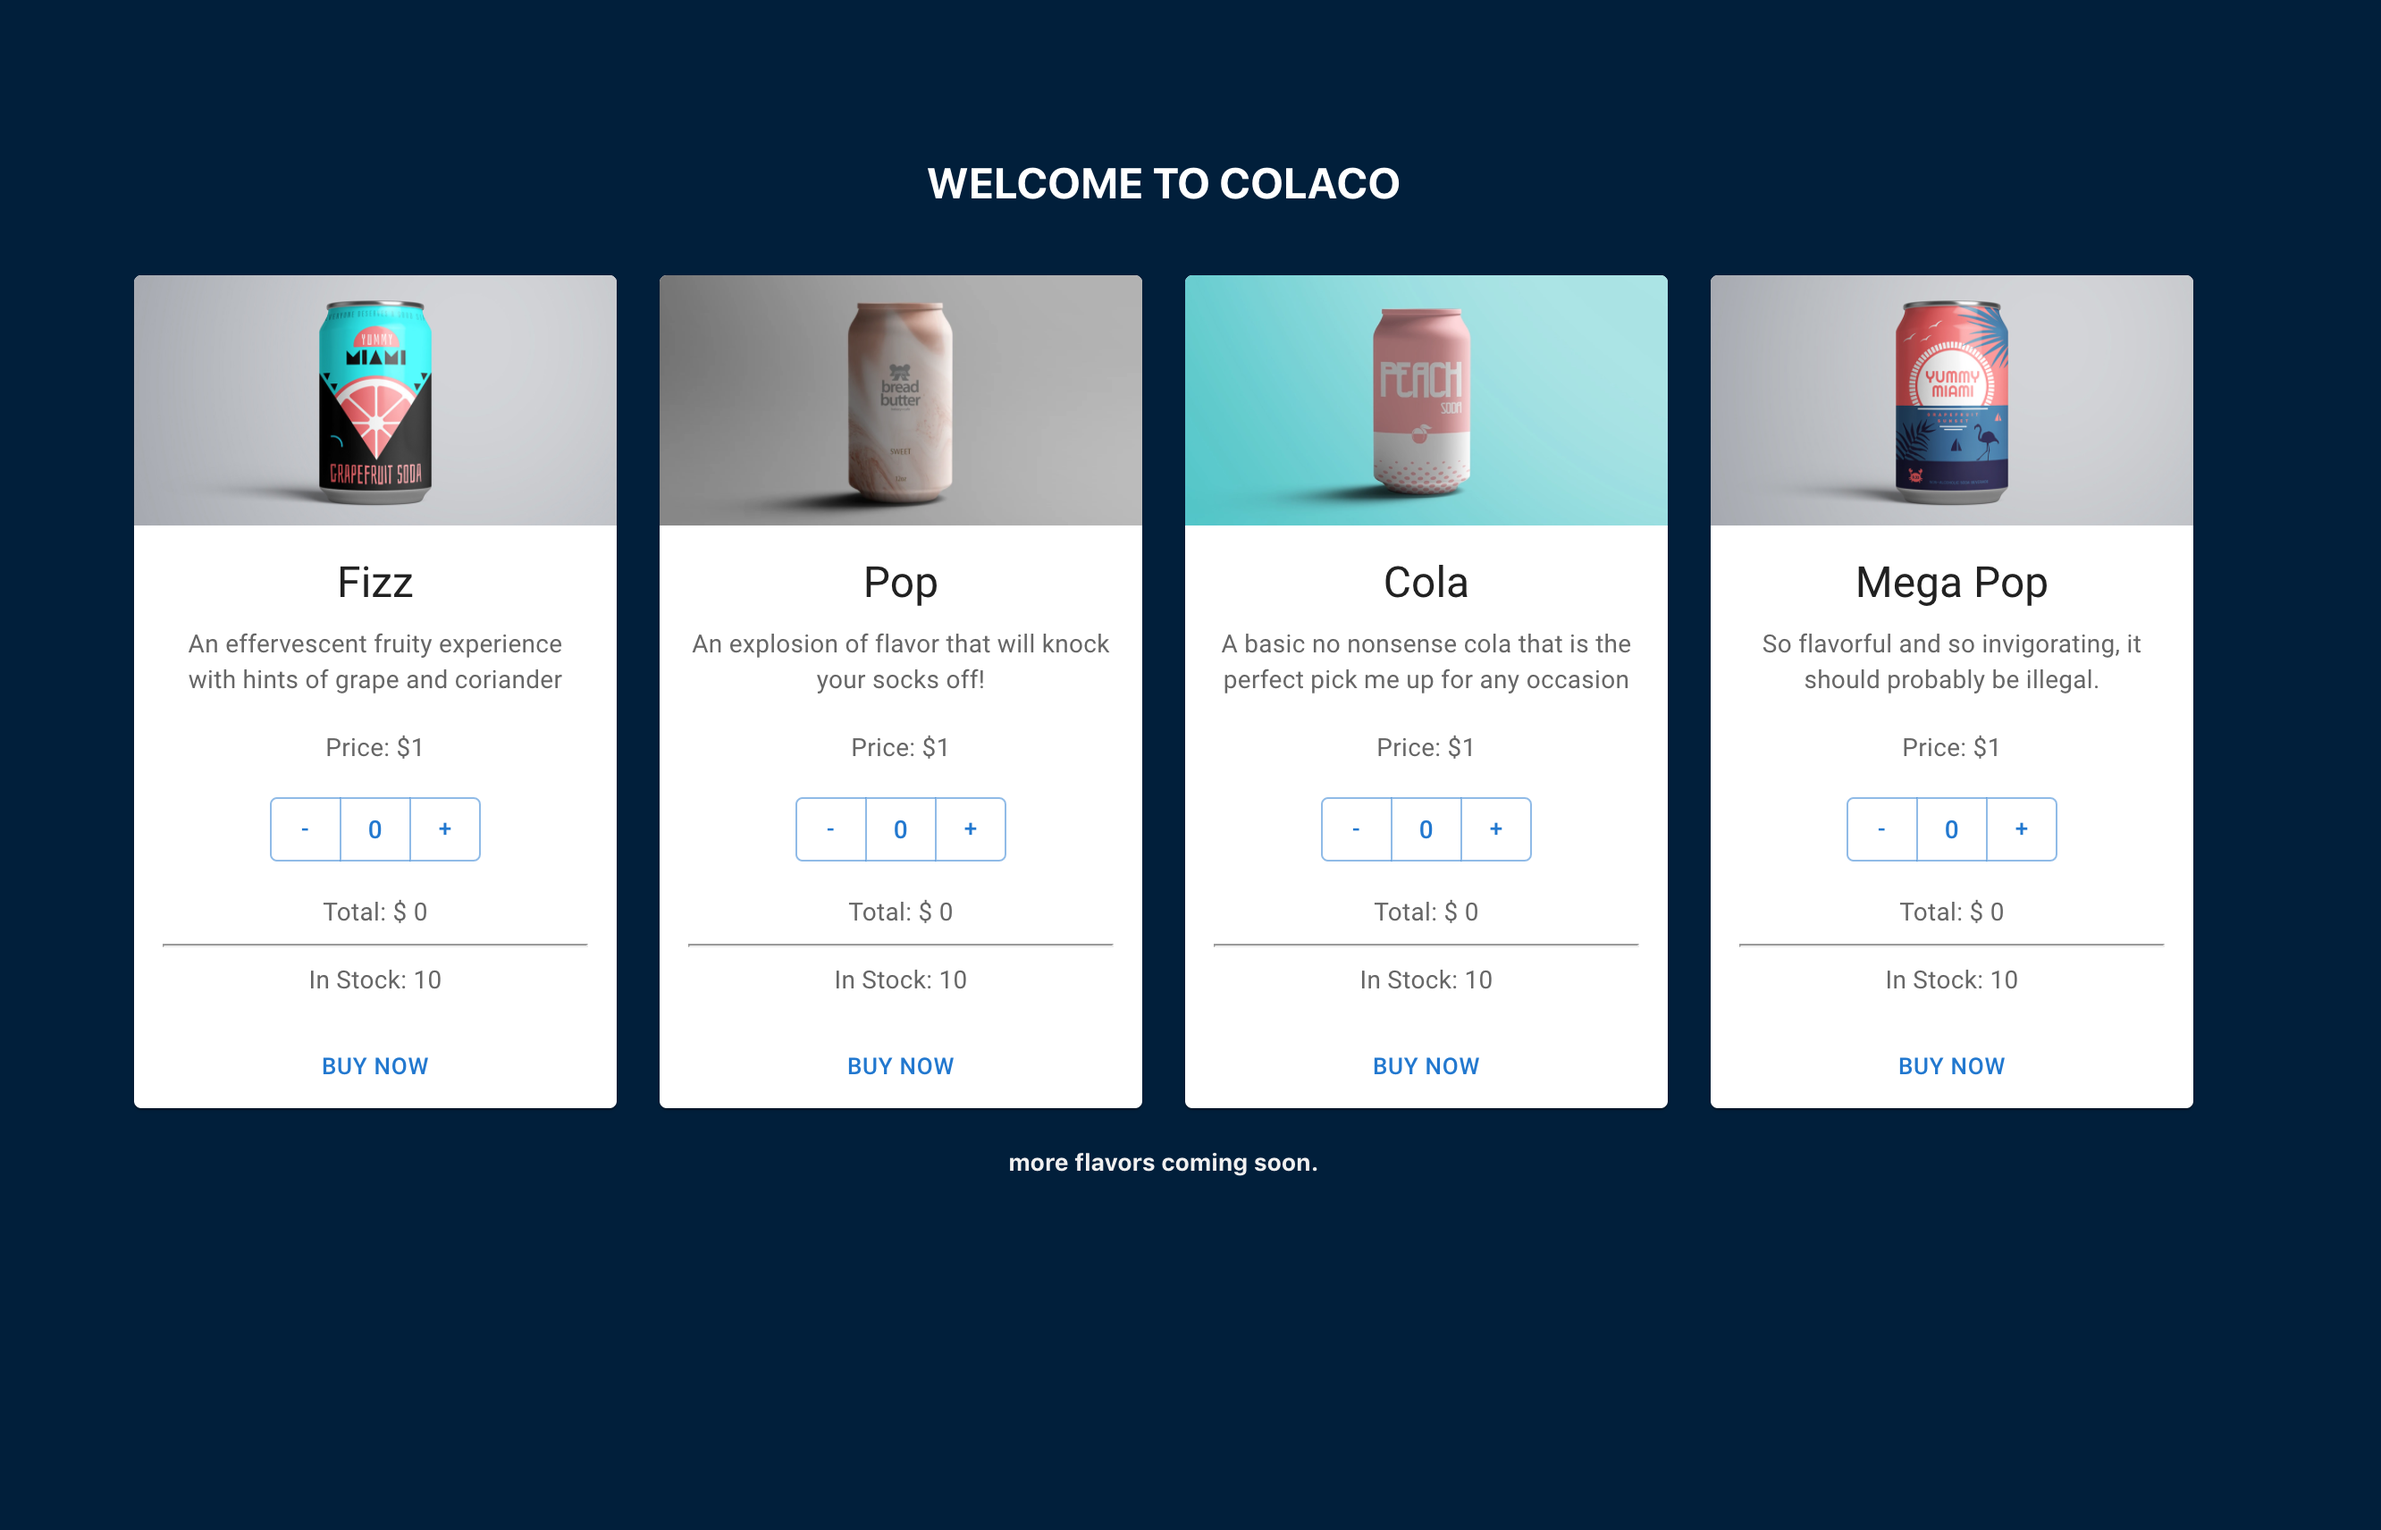
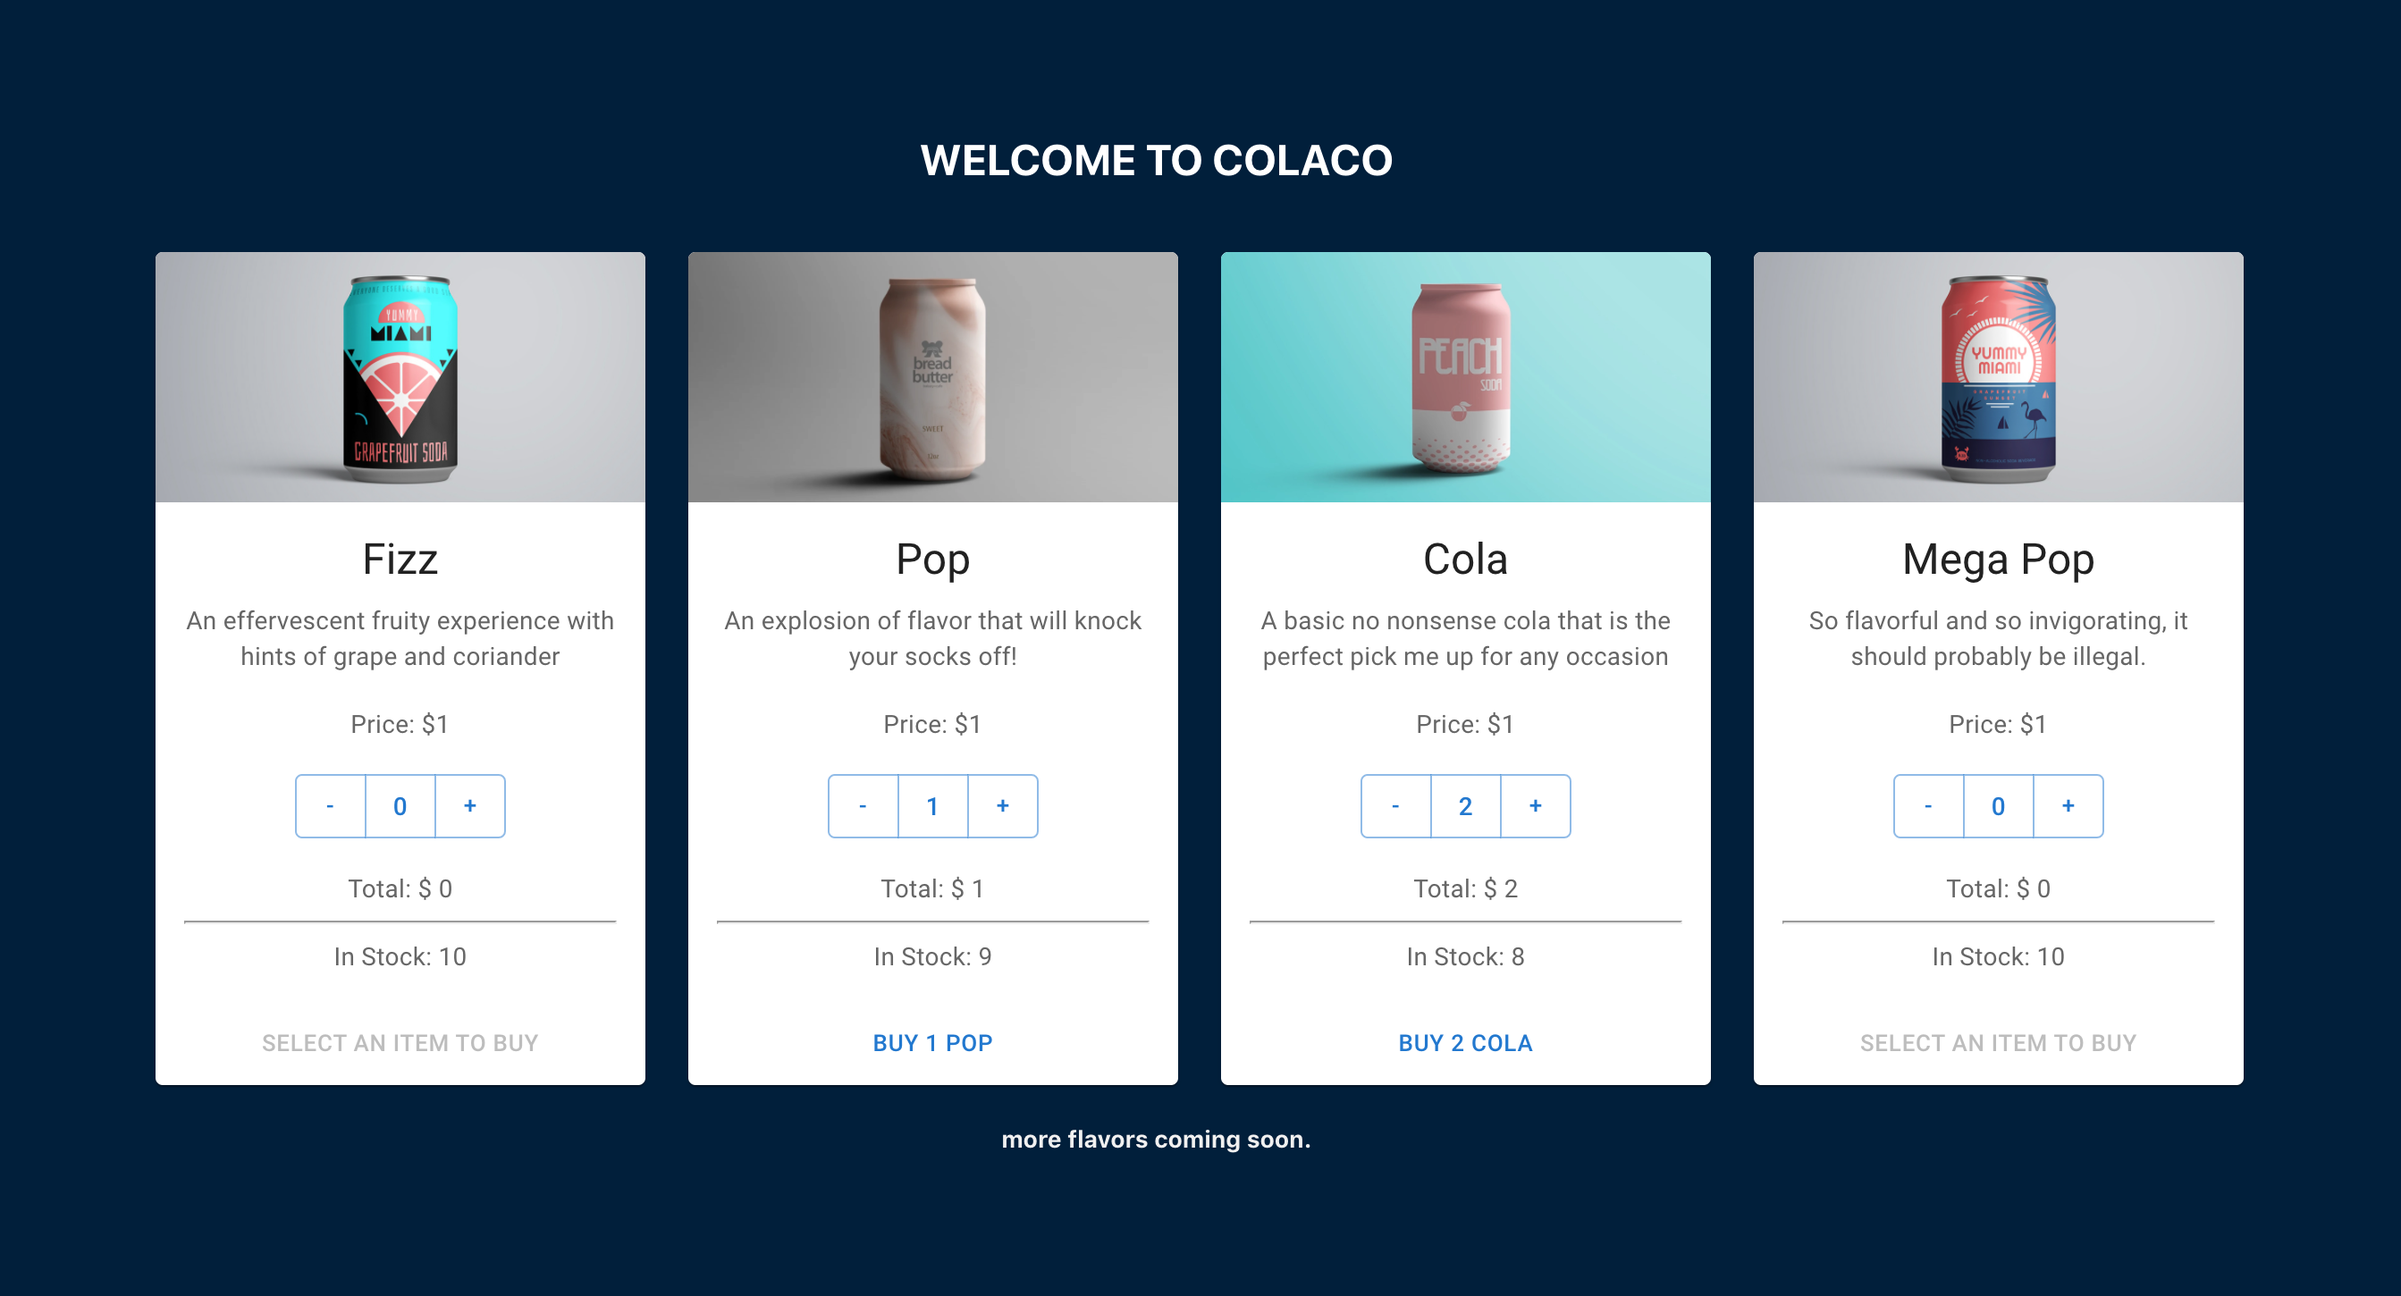
cleanup

Changed region(s): [[0.0312, 0.0931, 0.9347, 0.8379], [0.405, 0.869, 0.5297, 0.9]]

diff --git a/server/index.js b/server/index.js
@@ -32,48 +32,48 @@ app.use((req, res, next) => {
 
 app.use("/api/products", productRoutes)
 
-app.get("/api", (req, res) => {
-  res.setHeader('Access-Control-Allow-Origin', 'http://localhost:3001');
-  res.json({
-    sodas: [
-    {
-      id: 1,
-      name: 'Fizz',
-      description: 'An effervescent fruity experience with hints of grape and coriander',
-      maxquantity: '90',
-      instock: '10',
-      imageurl: 'https://mir-s3-cdn-cf.behance.net/project_modules/hd/2f681067522271.5b3cb6db2e669.jpg',
-      cost: 1
-    }, 
-    {
-      id: 2,
-      name: 'Pop',
-      description: 'An explosion of flavor that will knock your socks off!',
-      maxquantity: '90',
-      instock: '10',
-      imageurl: 'https://res.cloudinary.com/wnotw/images/c_limit,w_1536,q_auto:good,f_auto/v1605652028/npmum5kybg05zizjxykh/soda-can-design',
-      cost: 1
-    },
-    {
-      id: 3,
-      name: 'Cola',
-      description: 'A basic no nonsense cola that is the perfect pick me up for any occasion',
-      maxquantity: '190',
-      instock: '10',
-      imageurl: 'https://cdn.dribbble.com/users/660474/screenshots/2888374/cansoda.jpg',
-      cost: 1
-    }, 
-    {
-      id: 4,
-      name: 'Mega Pop',
-      description: 'So flavorful and so invigorating, it should probably be illegal.',
-      maxquantity: '40',
-      instock: '10',
-      imageurl: 'https://mir-s3-cdn-cf.behance.net/project_modules/max_1200/999ab567522271.5b3cb6db2fbf6.jpg',
-      cost: 1
-    } ]   
-  });
-});
+// app.get("/api", (req, res) => {
+//   res.setHeader('Access-Control-Allow-Origin', 'http://localhost:3001');
+//   res.json({
+//     sodas: [
+//     {
+//       id: 1,
+//       name: 'Fizz',
+//       description: 'An effervescent fruity experience with hints of grape and coriander',
+//       maxquantity: '90',
+//       instock: '10',
+//       imageurl: 'https://mir-s3-cdn-cf.behance.net/project_modules/hd/2f681067522271.5b3cb6db2e669.jpg',
+//       cost: 1
+//     }, 
+//     {
+//       id: 2,
+//       name: 'Pop',
+//       description: 'An explosion of flavor that will knock your socks off!',
+//       maxquantity: '90',
+//       instock: '10',
+//       imageurl: 'https://res.cloudinary.com/wnotw/images/c_limit,w_1536,q_auto:good,f_auto/v1605652028/npmum5kybg05zizjxykh/soda-can-design',
+//       cost: 1
+//     },
+//     {
+//       id: 3,
+//       name: 'Cola',
+//       description: 'A basic no nonsense cola that is the perfect pick me up for any occasion',
+//       maxquantity: '190',
+//       instock: '10',
+//       imageurl: 'https://cdn.dribbble.com/users/660474/screenshots/2888374/cansoda.jpg',
+//       cost: 1
+//     }, 
+//     {
+//       id: 4,
+//       name: 'Mega Pop',
+//       description: 'So flavorful and so invigorating, it should probably be illegal.',
+//       maxquantity: '40',
+//       instock: '10',
+//       imageurl: 'https://mir-s3-cdn-cf.behance.net/project_modules/max_1200/999ab567522271.5b3cb6db2fbf6.jpg',
+//       cost: 1
+//     } ]   
+//   });
+// });
 
 app.listen(PORT, () => {
   console.log(`Server listening on ${PORT}`);

diff --git a/vending-machine-ui/src/components/product-card.component.jsx b/vending-machine-ui/src/components/product-card.component.jsx
@@ -9,9 +9,8 @@ import ButtonGroup from '@mui/material/ButtonGroup'
 import Typography from '@mui/material/Typography'
 import { saveAs } from "file-saver"
 import axios from 'axios'
-import { useParams } from 'react-router-dom'
 
-export default function MediaCard({ id, name, description, imageurl, instock, maxquantity, cost }) {
+export default function MediaCard({ id, key, name, description, imageurl, instock, maxquantity, cost }) {
 
   // const { name, description, imageurl, instock, maxquantity, cost } = props
 
@@ -77,8 +76,9 @@ export default function MediaCard({ id, name, description, imageurl, instock, ma
         alt="soda pic"
       />
       <CardContent>
+        
         <Typography gutterBottom variant="h5" component="div">
-          { name }
+          { name } 
         </Typography>
         <Typography component={'div'} variant="body2" color="text.secondary">
           { description }
@@ -108,7 +108,14 @@ export default function MediaCard({ id, name, description, imageurl, instock, ma
        
       </CardContent>
       <CardActions  style={{justifyContent: 'center'}}>
-        <Button size="small" onClick={handleBuyNow}>Buy Now</Button> 
+        {
+          counter 
+          ? 
+            <Button size="small" onClick={handleBuyNow}>BUY {counter} {name}</Button>  
+          : 
+            <Button size="small" disabled onClick={handleBuyNow}>SELECT AN ITEM TO BUY</Button>
+        }
+
         {/* <Button size="small">Add to Cart { counter }</Button> */}
       </CardActions>
     </Card>
